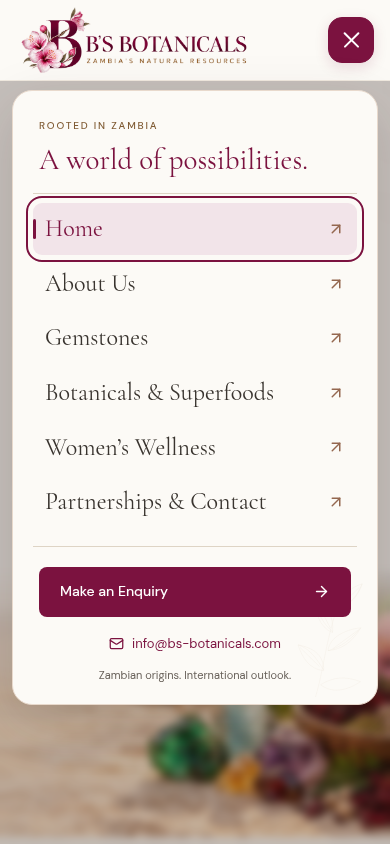
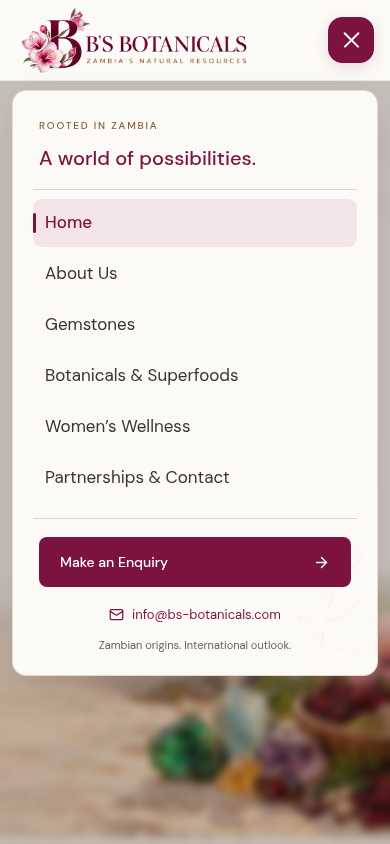
Simplify mobile menu typography while retaining contact details

diff --git a/src/styles.css b/src/styles.css
@@ -78,7 +78,7 @@ section[id], div[id="enquiry-form"] { scroll-margin-top: 0; }
 .nav-links > a { display: flex; align-items: center; min-height: 44px; position: relative; font-size: 14px; line-height: 1.4; white-space: nowrap; }
 .nav-links > a:hover, .nav-links > a.active { color: var(--wine); }
 .nav-links > a.active::after { content: ''; position: absolute; bottom: 2px; left: 0; width: 100%; height: 2px; background: var(--gold); }
-.menu-intro, .menu-footer, .menu-link-arrow { display: none; }
+.menu-intro, .menu-footer { display: none; }
 .header-cta { padding: 12px 18px; min-height: 46px; font-size: 13px; gap: 16px; white-space: nowrap; }
 .menu-button { display: none; align-items: center; justify-content: center; width: 46px; height: 46px; background: #fffdf9; color: var(--wine); border: 1px solid #dfcdd1; border-radius: 14px; transition: background .25s, border-color .25s, box-shadow .25s; }
 .menu-button:hover { border-color: var(--wine); }
@@ -413,22 +413,20 @@ section[id], div[id="enquiry-form"] { scroll-margin-top: 0; }
 /* Tablet: use space for content rather than compressing type. */
 @media (max-width: 1240px) {
   .header-inner { height: 88px; }
-  .main-nav { display: block; position: absolute; top: calc(100% + 10px); right: -20px; width: min(440px, calc(100vw - 24px)); z-index: 52; background: #fcfaf6; padding: 25px; border: 1px solid #e8d9cc; border-radius: 20px; box-shadow: 0 18px 55px #34201e26; max-height: calc(100dvh - 112px); overflow-y: auto; overscroll-behavior: contain; opacity: 0; visibility: hidden; pointer-events: none; transform: translateY(-12px) scale(.985); transform-origin: top right; transition: opacity .22s ease, transform .28s cubic-bezier(.22, 1, .36, 1), visibility 0s .28s; }
+  .main-nav { display: block; position: absolute; top: calc(100% + 10px); right: -20px; width: min(440px, calc(100vw - 24px)); z-index: 52; background: #fcfaf6; padding: 25px; border: 1px solid #e8d9cc; border-radius: 14px; box-shadow: 0 12px 36px #34201e1a; max-height: calc(100dvh - 112px); overflow-y: auto; overscroll-behavior: contain; opacity: 0; visibility: hidden; pointer-events: none; transform: translateY(-12px) scale(.985); transform-origin: top right; transition: opacity .22s ease, transform .28s cubic-bezier(.22, 1, .36, 1), visibility 0s .28s; }
   .main-nav.is-open { opacity: 1; visibility: visible; pointer-events: auto; transform: none; transition-delay: 0s; }
   .menu-intro { display: block; padding: 0 6px 17px; border-bottom: 1px solid var(--line); margin-bottom: 9px; }
   .menu-intro > span { color: var(--gold-text); font-size: 10px; font-weight: 500; letter-spacing: 1.8px; }
-  .menu-intro > p { font-family: var(--serif); font-size: 29px; line-height: 1.1; color: var(--wine); margin: 7px 0 0; }
+  .menu-intro > p { font-family: var(--sans); font-size: 20px; font-weight: 500; line-height: 1.4; color: var(--wine); margin: 7px 0 0; }
   .nav-links { display: flex; align-items: stretch; flex-direction: column; gap: 3px; }
-  .nav-links > a { justify-content: space-between; gap: 12px; min-height: 52px; font-family: var(--serif); font-size: 25px; white-space: normal; padding: 10px 12px; border-radius: 9px; opacity: 0; transform: translateY(7px); transition: opacity .2s ease, transform .25s ease, background .2s, color .2s; }
+  .nav-links > a { justify-content: space-between; gap: 12px; min-height: 52px; font-family: var(--sans); font-size: 18px; font-weight: 400; white-space: normal; padding: 10px 12px; border-radius: 9px; opacity: 0; transform: translateY(7px); transition: opacity .2s ease, transform .25s ease, background .2s, color .2s; }
   .main-nav.is-open .nav-links > a { opacity: 1; transform: none; transition-delay: calc(45ms + var(--nav-index) * 25ms), calc(45ms + var(--nav-index) * 25ms), 0s, 0s; }
   .nav-links > a:hover { background: #f7eee9; }
-  .nav-links > a.active { color: var(--wine); background: #f2e4e9; }
+  .nav-links > a.active { color: var(--wine); background: #f2e4e9; font-weight: 500; }
   .nav-links > a.active::after { width: 3px; height: 20px; top: 50%; bottom: auto; left: 0; transform: translateY(-50%); background: var(--wine); border-radius: 3px; }
-  .menu-link-arrow { display: block; flex-shrink: 0; color: #94674f; transition: transform .2s; }
-  .nav-links > a:hover .menu-link-arrow { transform: translate(2px, -2px); }
-  .menu-footer { display: flex; flex-direction: column; align-items: stretch; position: relative; isolation: isolate; margin-top: 18px; padding: 20px 6px 0; border-top: 1px solid var(--line); }
+  .menu-footer { display: flex; flex-direction: column; align-items: stretch; position: relative; isolation: isolate; margin-top: 16px; padding: 18px 6px 0; border-top: 1px solid var(--line); }
   .menu-botanical { width: 75px; right: -12px; bottom: -15px; color: #ad885b; opacity: .13; z-index: -1; }
-  .menu-enquiry { justify-content: space-between; border-radius: 8px; min-height: 48px; }
+  .menu-enquiry { display: flex; justify-content: space-between; border-radius: 8px; min-height: 48px; }
   .menu-email { display: flex; align-items: center; justify-content: center; gap: 8px; min-height: 44px; color: var(--wine); font-size: 13px; margin-top: 5px; }
   .menu-footer > span { color: var(--muted); text-align: center; font-size: 11px; }
   .header-cta { margin-left: auto; }
@@ -541,7 +539,7 @@ section[id], div[id="enquiry-form"] { scroll-margin-top: 0; }
   .header-cta { display: none; }
   .menu-button { margin-left: auto; flex-shrink: 0; width: 46px; height: 46px; }
   .main-nav { left: -4px; right: -4px; width: auto; padding: 20px; max-height: calc(100dvh - 104px); }
-  .nav-links > a { min-height: 50px; font-size: 24px; padding-block: 9px; }
+  .nav-links > a { min-height: 48px; font-size: 17px; padding-block: 9px; }
   .menu-scrim { inset-block-start: 80px; }
   .eyebrow { font-size: 10px; letter-spacing: 1.25px; gap: 10px; }
   .eyebrow::after { width: 25px; }

diff --git a/src/App.jsx b/src/App.jsx
@@ -52,7 +52,7 @@ function Header() {
     <Logo/>
     <nav ref={nav} aria-label="Main navigation" aria-hidden={compact && !menuOpen ? true : undefined} inert={compact && !menuOpen} className={menuOpen ? 'main-nav is-open' : 'main-nav'} id="main-navigation">
       <div className="menu-intro"><span>ROOTED IN ZAMBIA</span><p>A world of possibilities.</p></div>
-      <div className="nav-links">{navigation.map(([path, title], index) => <NavLink to={path} end={path === '/'} key={path} style={{ '--nav-index': index }} onClick={() => setMenuOpen(false)}><span>{title}</span><ArrowUpRight className="menu-link-arrow" size={18} aria-hidden="true"/></NavLink>)}</div>
+      <div className="nav-links">{navigation.map(([path, title], index) => <NavLink to={path} end={path === '/'} key={path} style={{ '--nav-index': index }} onClick={() => setMenuOpen(false)}><span>{title}</span></NavLink>)}</div>
       <div className="menu-footer"><BotanicalArt className="menu-botanical"/><Link className="button button-primary menu-enquiry" to="/contact#enquiry-form" onClick={() => setMenuOpen(false)}>Make an Enquiry<ArrowRight size={17} aria-hidden="true"/></Link><a className="menu-email" href="mailto:info@bs-botanicals.com"><Mail size={15} aria-hidden="true"/>info@bs-botanicals.com</a><span>Zambian origins. International outlook.</span></div>
     </nav>
     <Button to="/contact#enquiry-form" className="header-cta">Make an Enquiry</Button>

diff --git a/tests/browser/website.spec.js b/tests/browser/website.spec.js
@@ -229,6 +229,9 @@ test('navigation traps focus on small screens and restores scrolling after dismi
   const toggle = page.locator('.menu-button');
   await toggle.click();
   await expect(page.locator('#main-navigation a').first()).toBeFocused();
+  await expect(page.locator('#main-navigation .menu-email')).toBeVisible();
+  await expect(page.locator('#main-navigation .menu-footer > span')).toHaveText('Zambian origins. International outlook.');
+  expect(await page.locator('#main-navigation .nav-links > a').first().evaluate(el => getComputedStyle(el).fontFamily)).toContain('DM Sans');
   expect(await page.evaluate(() => document.body.style.overflow)).toBe('hidden');
   await page.keyboard.press('Shift+Tab');
   await expect(toggle).toBeFocused();

diff --git a/README.md b/README.md
@@ -23,7 +23,7 @@ These are screenshots of the built website, viewable directly on GitHub. The web
 - Individual generated illustrations for six rough gemstone varieties and eight raw botanical ingredients, plus a dedicated gemstone banner. Visible labels distinguish the artwork from actual stock photography.
 - Product-specific enquiry links that go straight to a prefilled form, with a visible product summary.
 - Inline form validation, keyboard focus management, duplicate-send prevention and an email fallback when direct delivery fails.
-- A rounded ivory mobile menu with an animated hamburger/close icon, staggered links, a fading blurred backdrop, a clear active-page marker and an enquiry button. Keyboard focus, Escape/backdrop dismissal, scroll restoration and reduced-motion preferences are supported.
+- A rounded ivory mobile menu with simple DM Sans typography, an animated hamburger/close icon, staggered links, a fading blurred backdrop, a clear active-page marker and an enquiry button. The email address, tagline and botanical decoration remain below the button. Keyboard focus, Escape/backdrop dismissal, scroll restoration and reduced-motion preferences are supported.
 - Individual tea-box images display in a spacious gallery, with one full-width box per row on phones and links to the full-size artwork.
 - A sourcing-information section explaining availability, documentation and delivery discussions without adding unverified claims.
 
